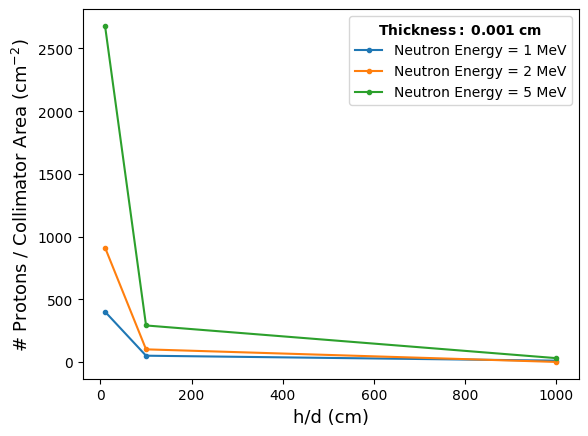
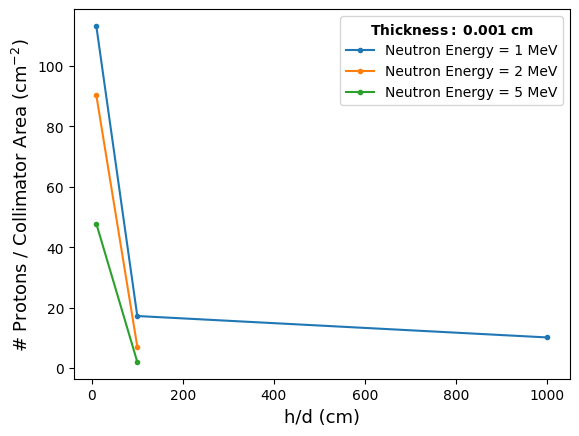
Fix efficiency plots

diff --git a/plot_efficiency.py b/plot_efficiency.py
@@ -3,6 +3,7 @@ import re
 import numpy as np
 import matplotlib.pyplot as plt
 
+thickness = 1e-1
 
 files = os.listdir("result_arrays/")
 h=10 #cm
@@ -20,7 +21,7 @@ for file in files:
     thick = float(res[0])
     d = float(res[1])
     E = float(res[2])
-    if thick == 1e-1:
+    if thick==thickness:
         if E==1:
             print("E: ", E, "d: ", d, "t: ", thick)
             eff_arr_1.append(len(arr)/(d*np.pi**2))
@@ -61,12 +62,9 @@ eff_arr_5 = eff_arr_5[index_5]
 plt.plot(d_arr_1, eff_arr_1, ".-", label = "Neutron Energy = 1 MeV")
 plt.plot(d_arr_2, eff_arr_2,  ".-", label = "Neutron Energy = 2 MeV")
 plt.plot(d_arr_5, eff_arr_5,  ".-", label = "Neutron Energy = 5 MeV")
-title_string = f"Thickness: {thick} cm"
+title_string = f"Thickness: {thickness} cm"
 plt.legend(title=r'$\bf{{{}}}$'.format(title_string.replace(' ', r'\;')), fancybox=True)
 plt.xlabel("h/d (cm)", fontsize=13)
 plt.ylabel(r"# Protons / Collimator Area (cm$^{-2}$)", fontsize=13)
 
-plt.savefig(f"result_plots/efficiency_t_{thick}.png", bbox_inches="tight")
-# fig = plt.figure()
-# ax = fig.add_subplot()
-# ax.plot()
+plt.savefig(f"result_plots/efficiency_t_{thickness}.png", bbox_inches="tight")
